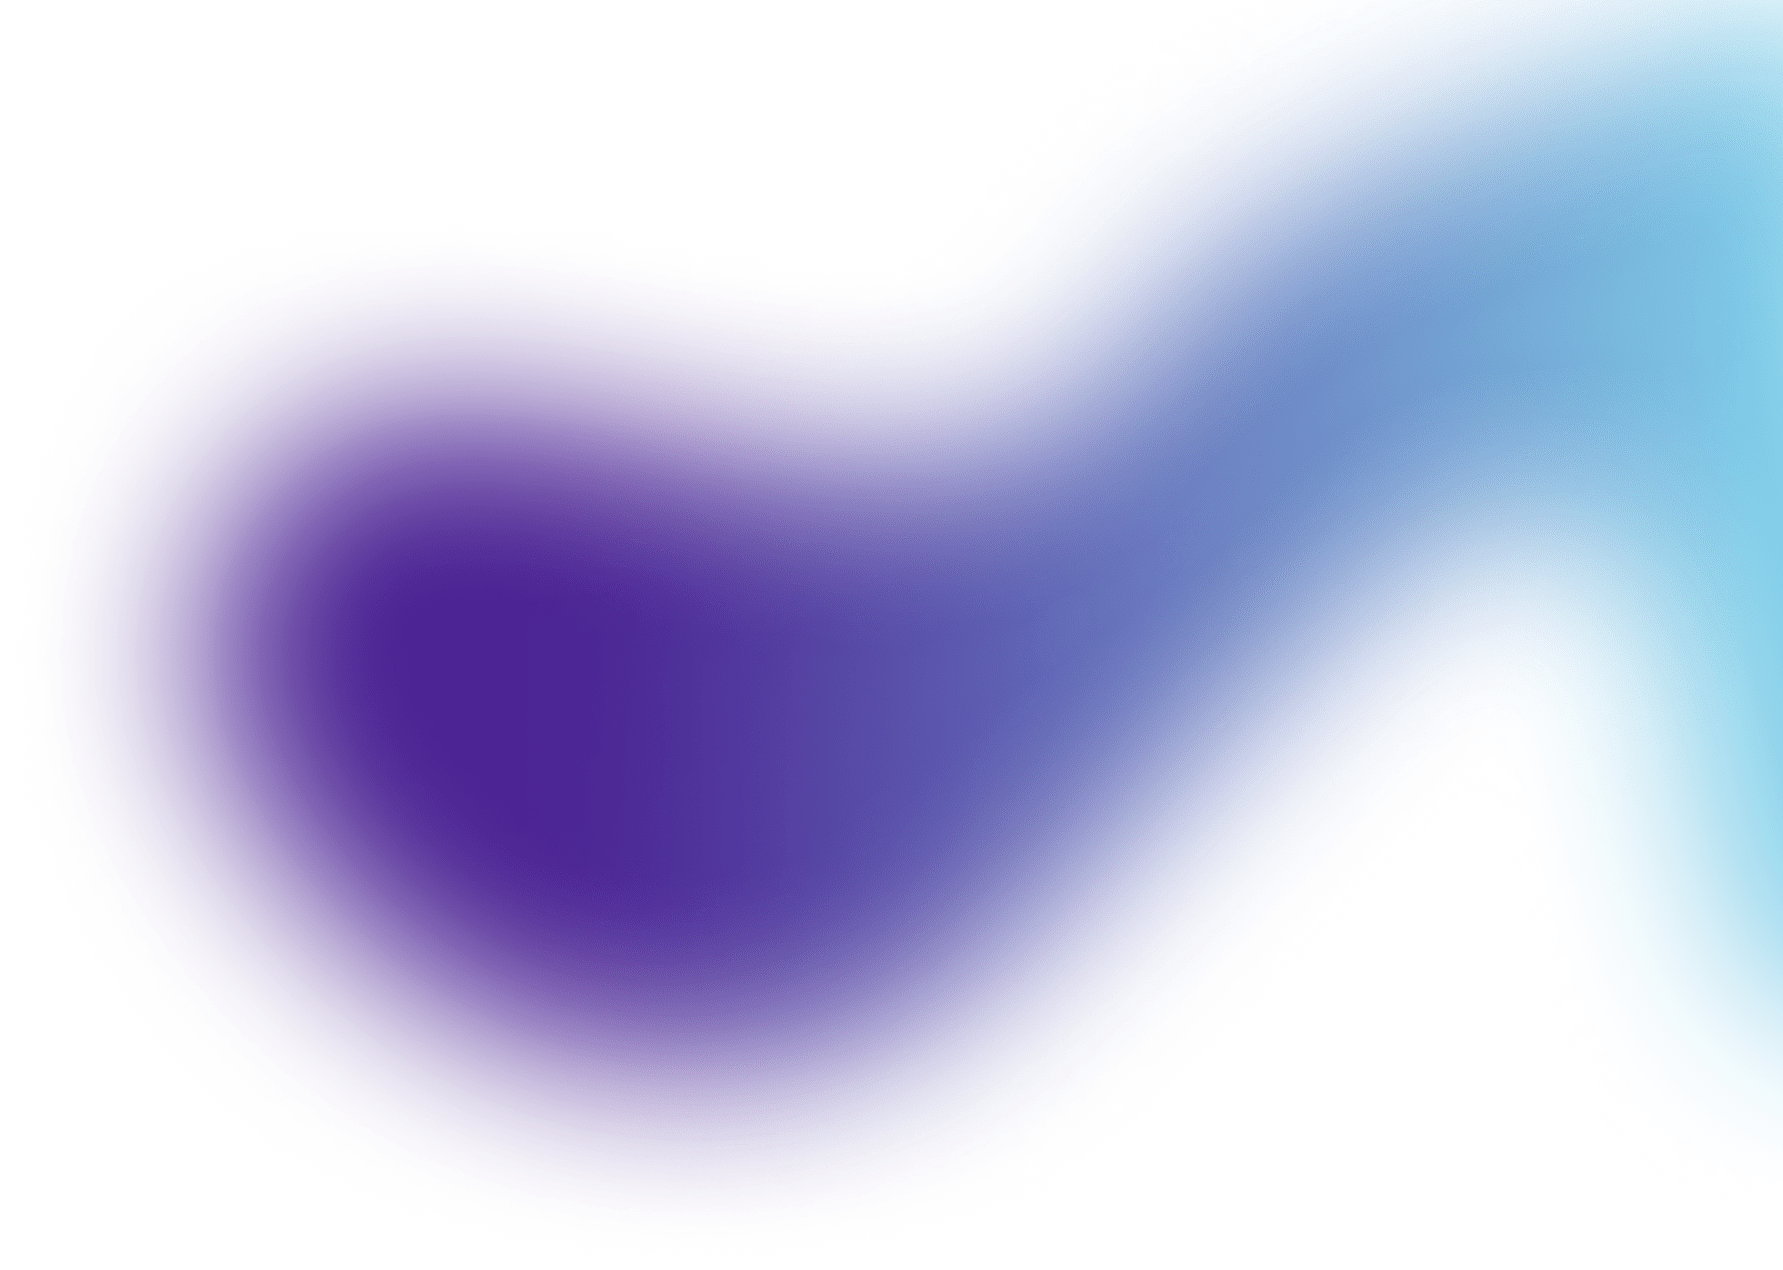
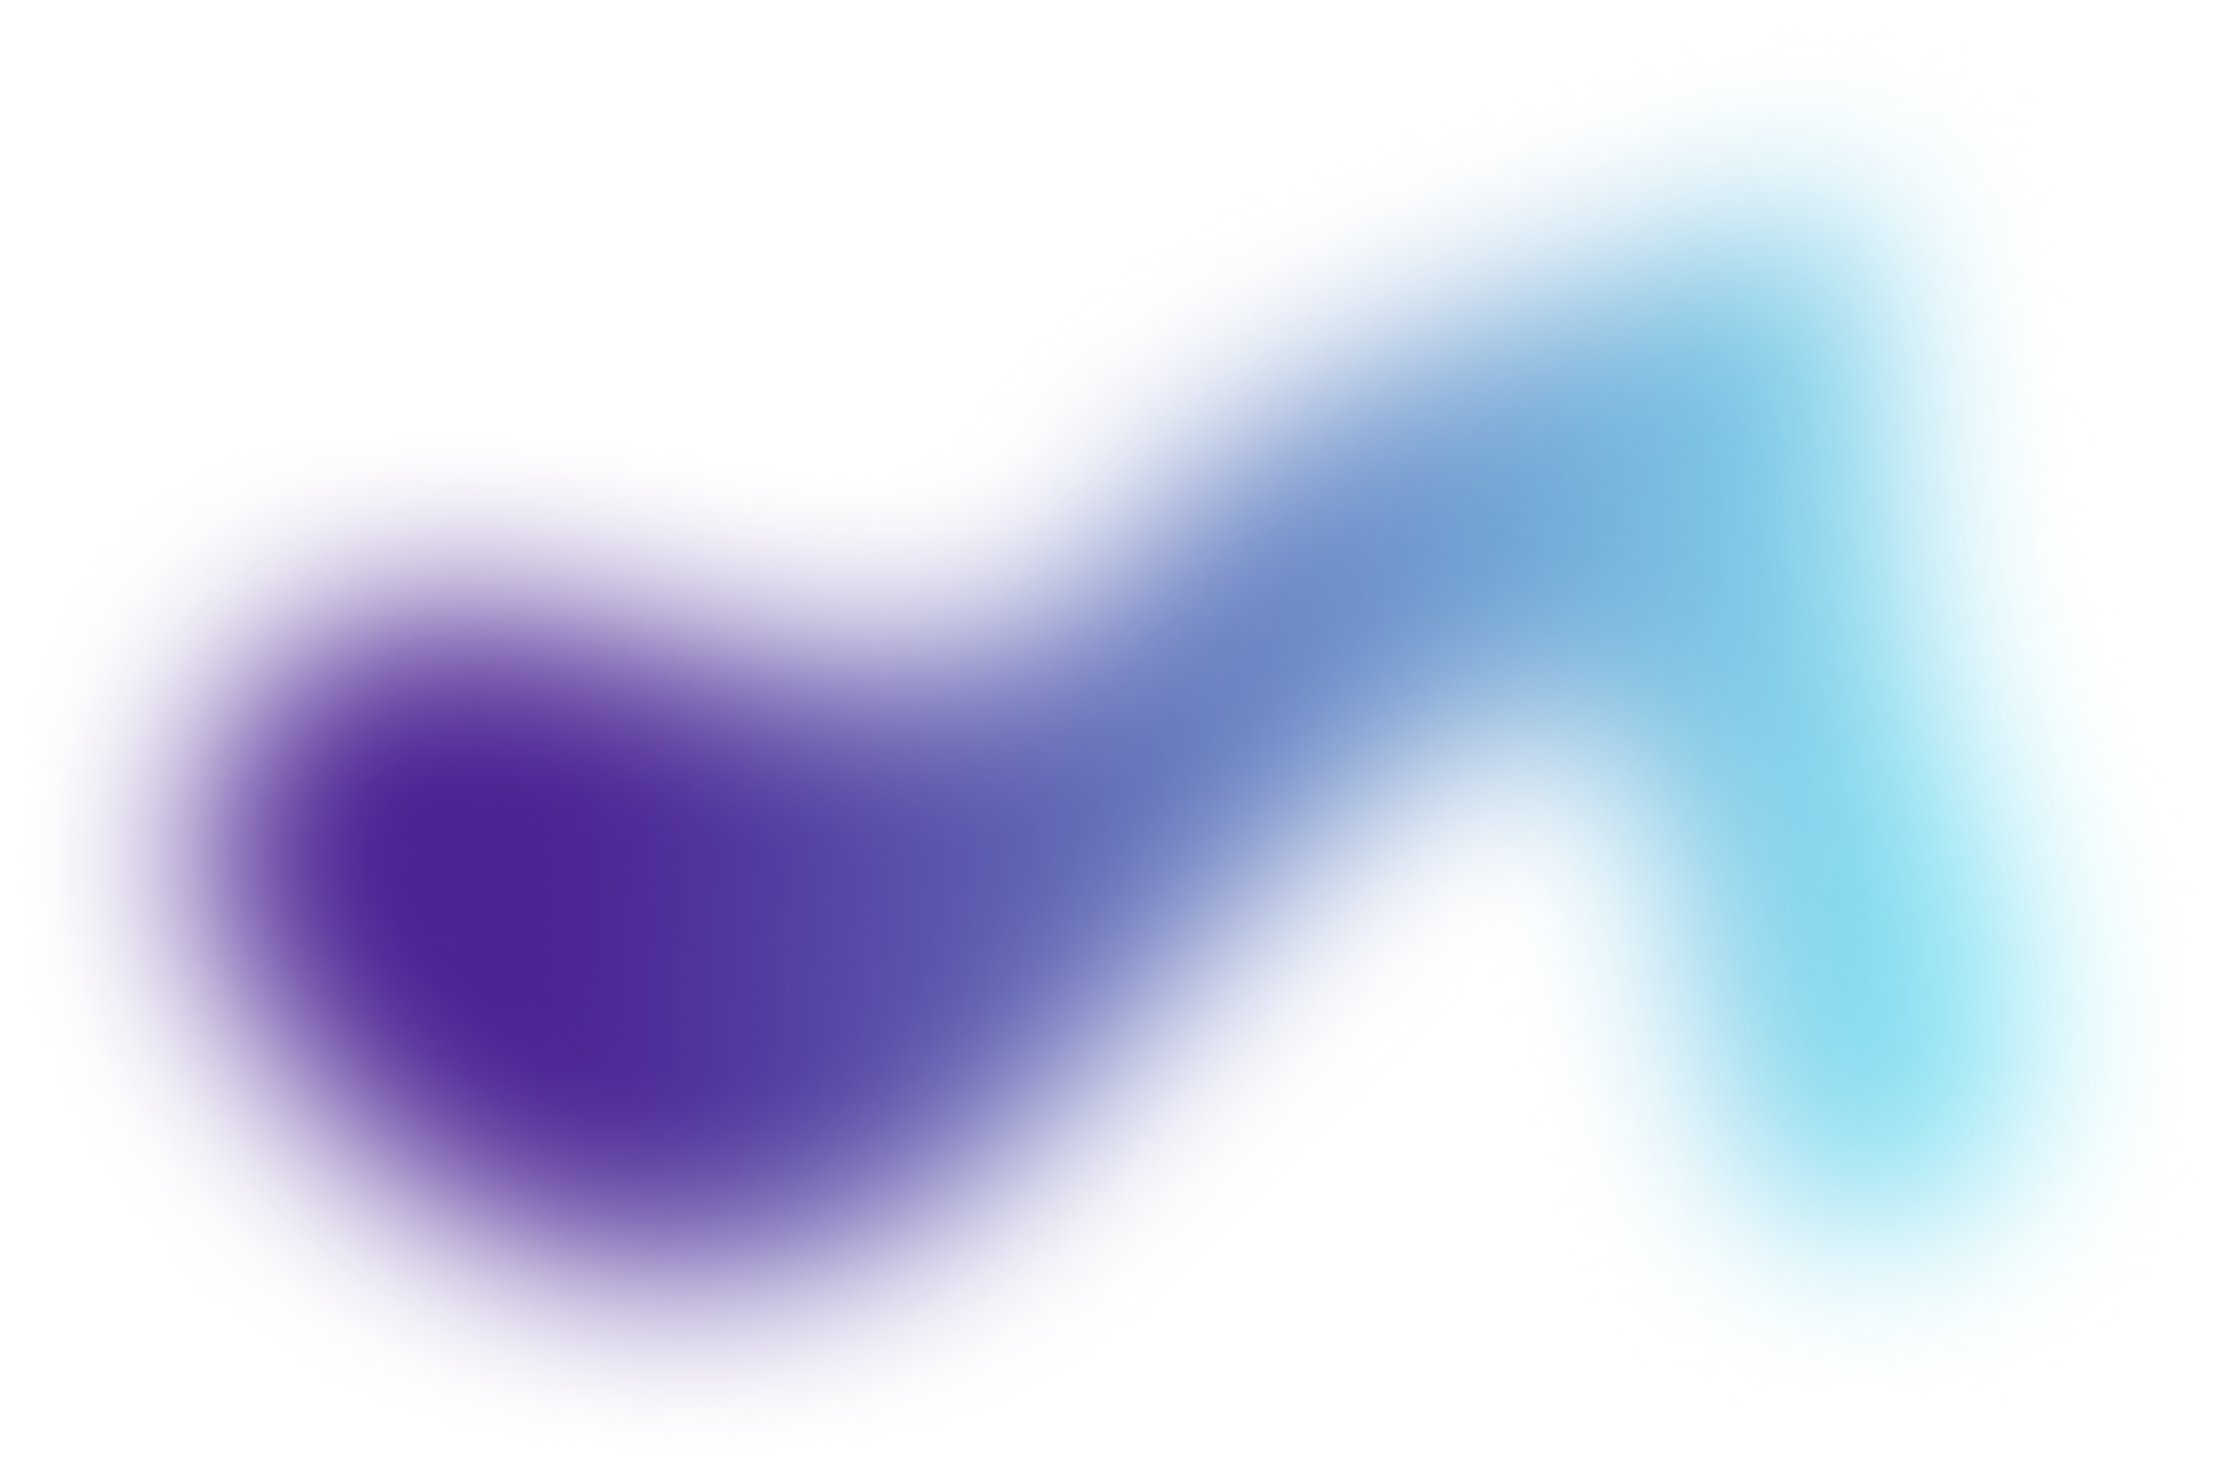
Mobile changes

diff --git a/src/app/contact/contact.component.html b/src/app/contact/contact.component.html
@@ -13,7 +13,7 @@
   <span class="phone">
     You can contact me at :<br>
     <a href=""></a>
-    <span (click)="phoneContact()">+381 61 29 45 678</span>
+    <span (click)="phoneContact()">+381 61 29 87 606</span>
   </span>
 </div>
 

diff --git a/src/app/hero/hero.component.scss b/src/app/hero/hero.component.scss
@@ -31,6 +31,13 @@
   position: absolute;
   right: -20%;
   z-index: 1;
+
+  @media #{variables.$m-phone} {
+    top: 16%;
+    right: -140%;
+    width: 1025px;
+    transform: rotate(-42.66deg);
+  }
 }
 
 h1 {
